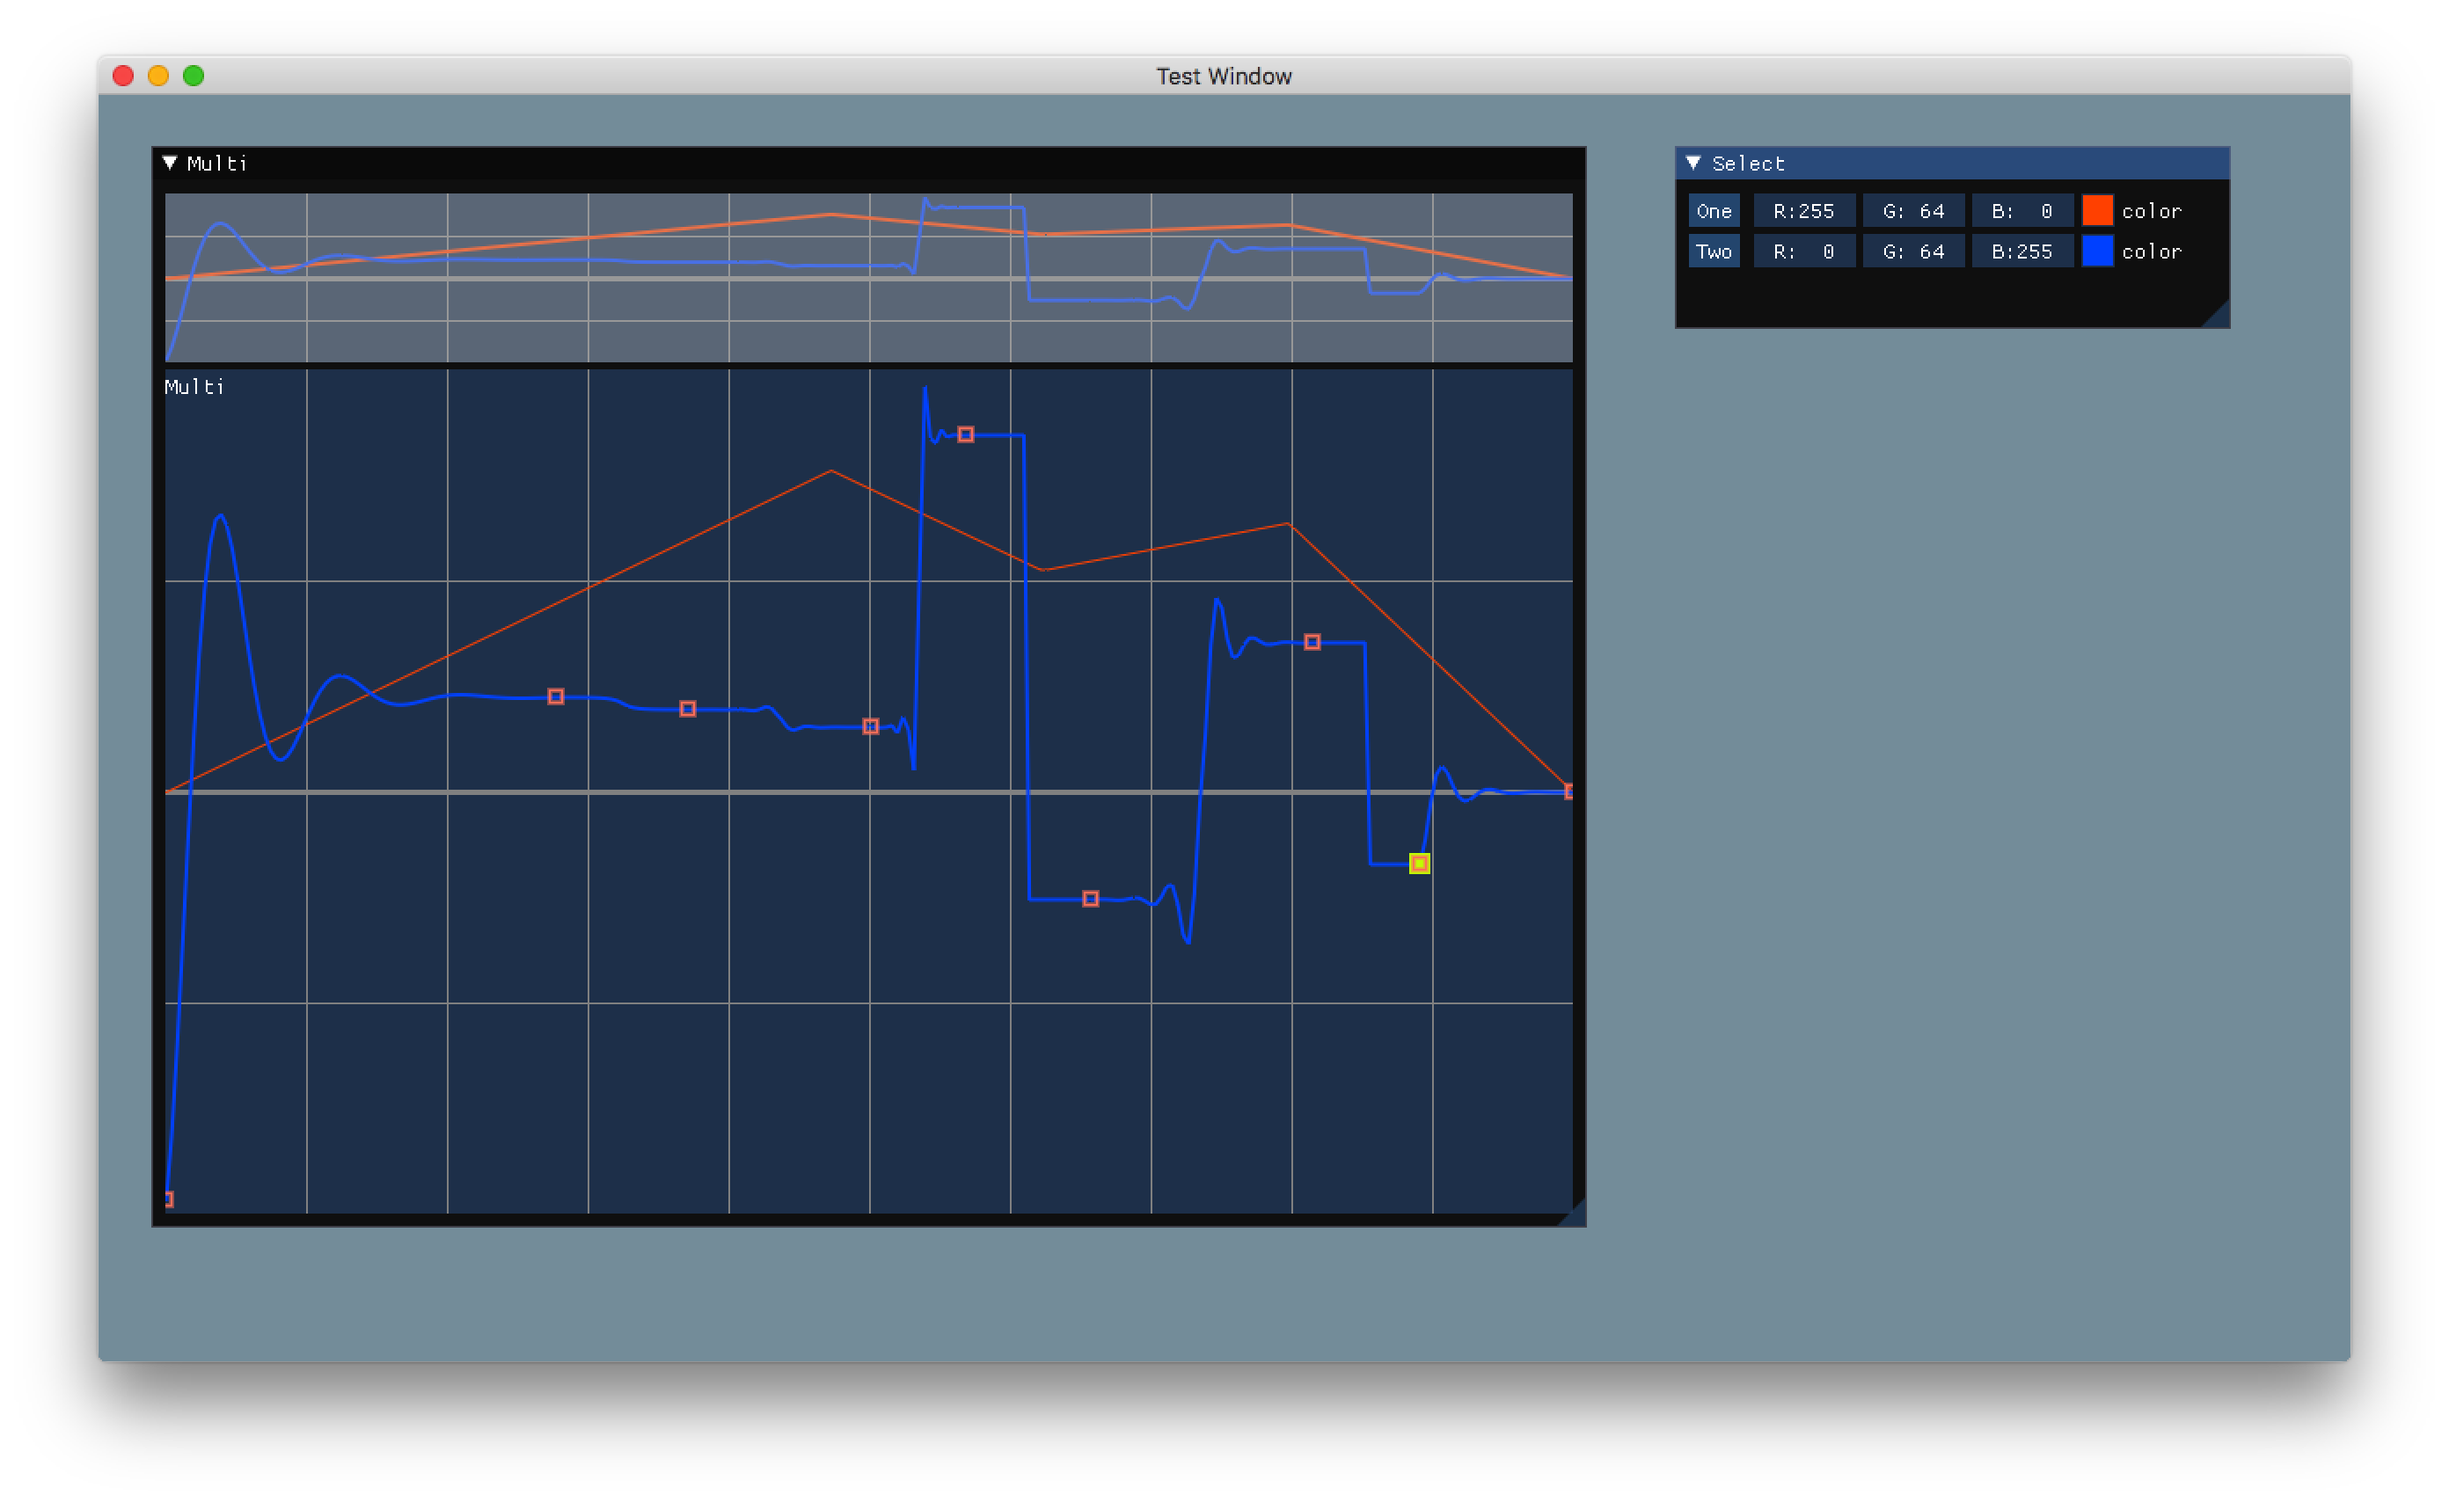
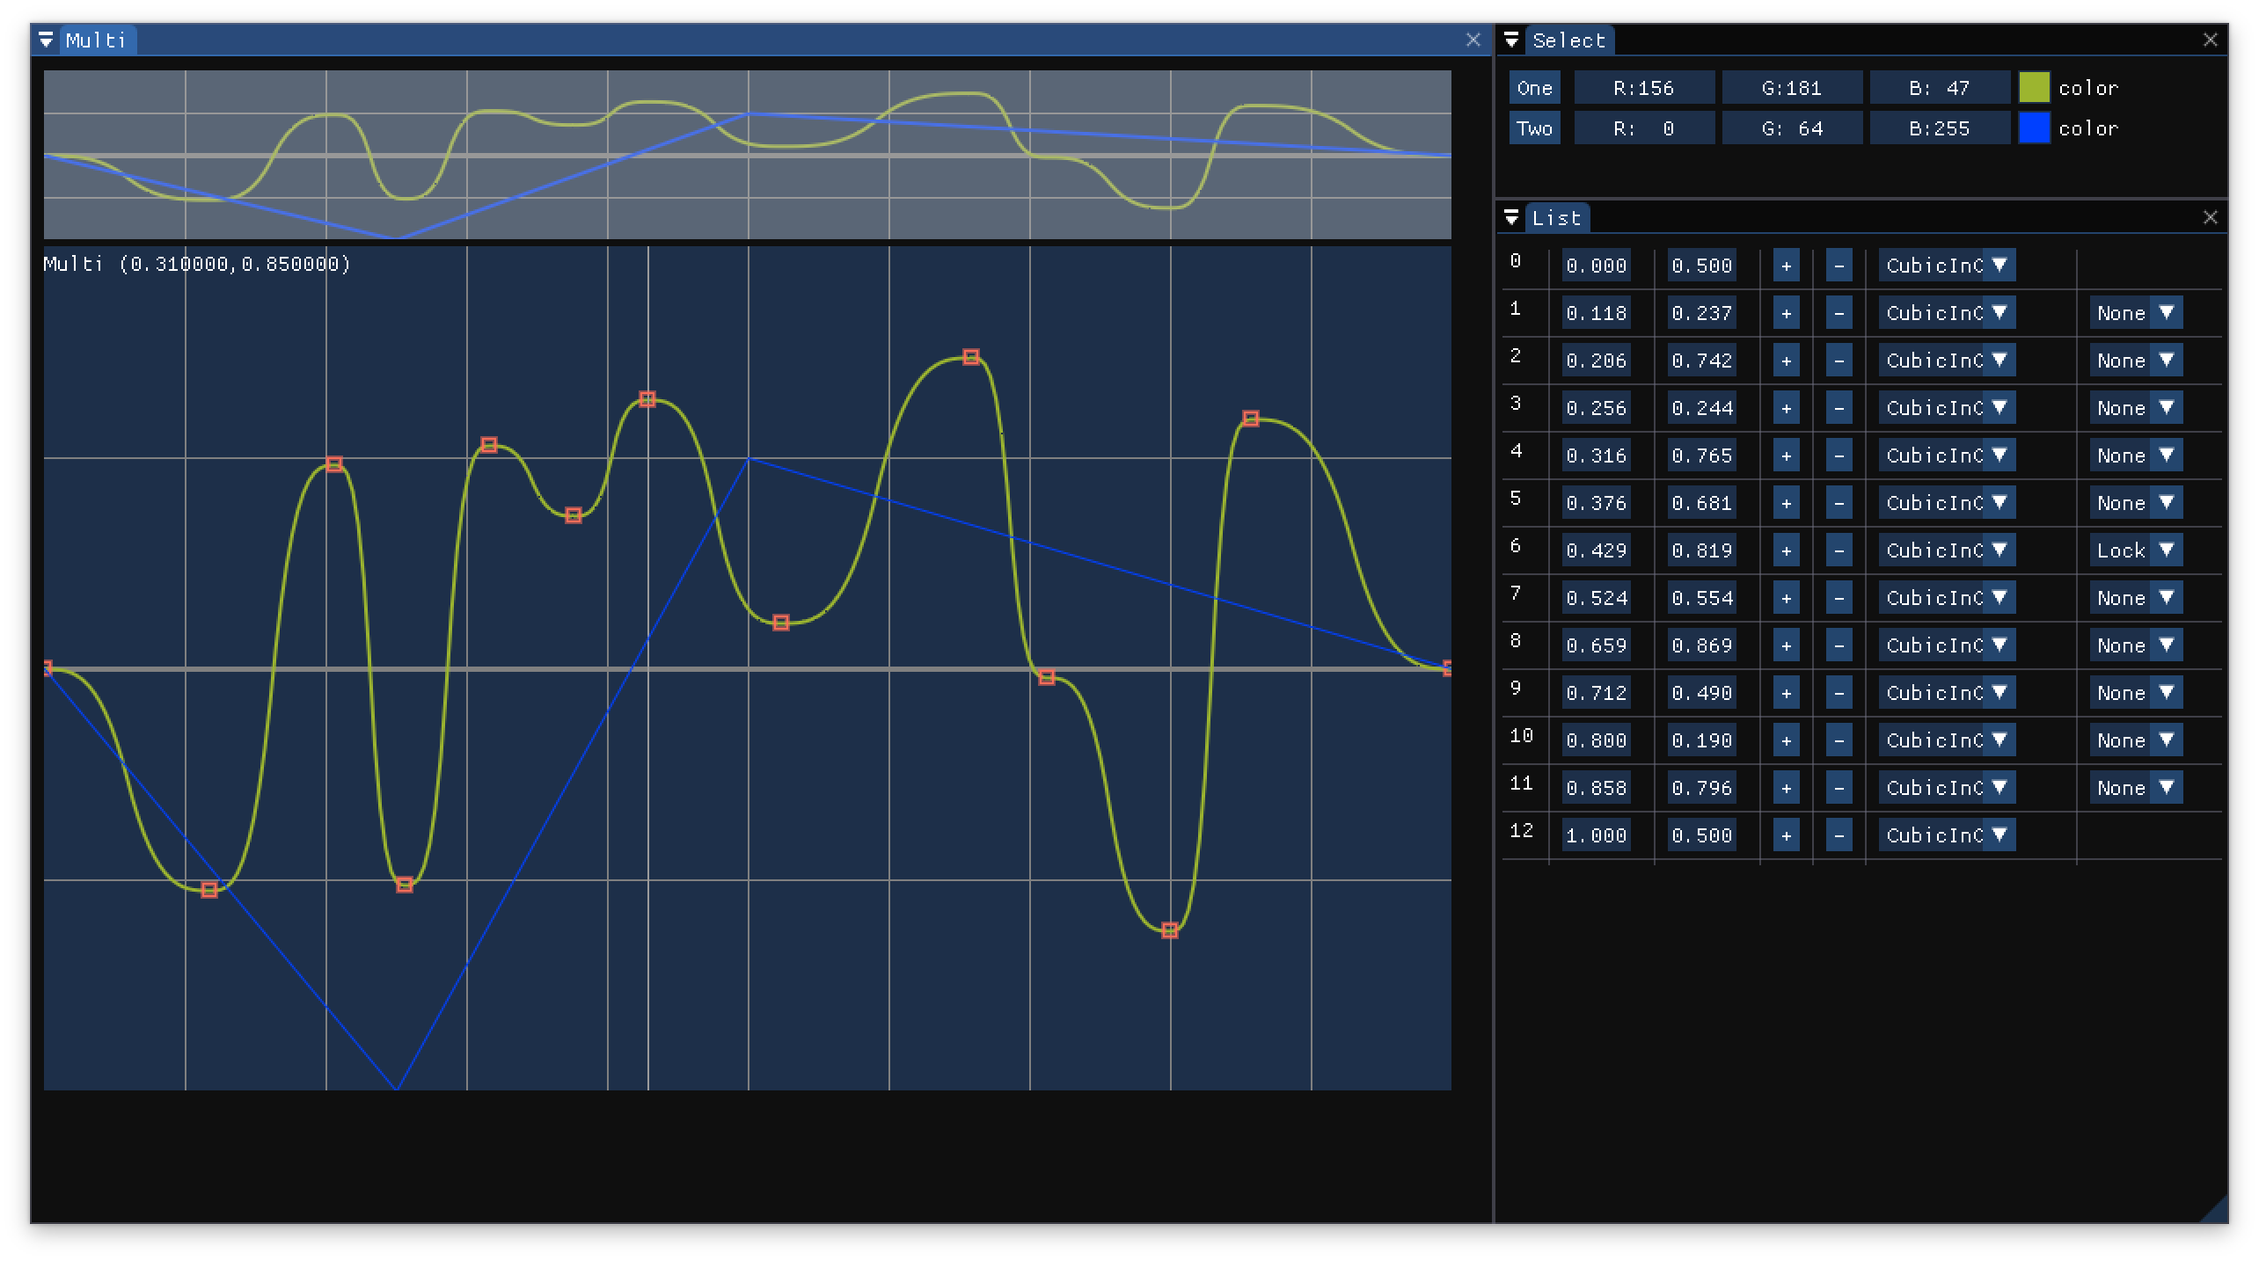
screenshot & readme

diff --git a/README.md b/README.md
@@ -2,10 +2,21 @@
 ## class for float parameter automation & widget for imgui
 ![screenshot](screenshot.png)
 
-- src/data : the data type. no dependencies<br>
+- src/data : the data types. no dependencies<br>
 - src/json : json serialization. uses nlohmann json header<br>
-- src/widget : widget for imgui<br>
+- src/widget : widgets for imgui<br>
+<br>
+version 0.0.2<br>
+<br>
 
+available widgets:<br>
+
+* Curve Editor<br>
+* Overview for single curve<br>
+* Multi curve editor<br>
+* Multi curve overview<br>
+* List Editor<br>
+<br>
 <br>
 <br>
 
